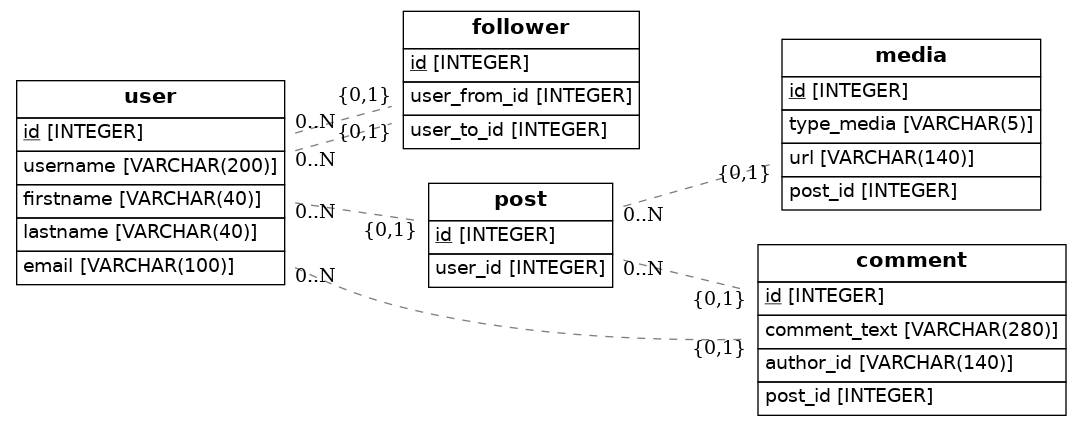
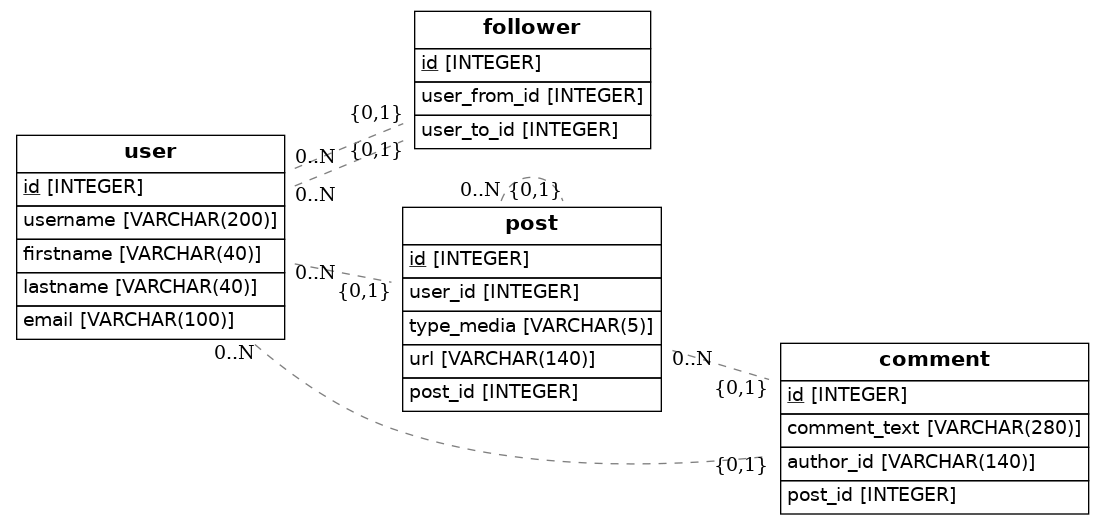
segundo commit con correcciones

Changed region(s): [[0.0, 0.0, 1.0, 1.0], [0.6411, 0.0915, 0.9769, 0.5188], [0.9463, 0.0915, 0.9769, 0.1221]]

diff --git a/src/models.py b/src/models.py
@@ -30,14 +30,9 @@ class Post(Base):
     id = Column(Integer, primary_key=True)
     user_id = Column(Integer, ForeignKey('user.id'))
     user = relationship(User)
-
-class Media(Base):
-    __tablename__ = 'media'
-    id = Column(Integer, primary_key=True)
     type_media = Column(Enum('photo', 'video'))
     url = Column(String(140), nullable=False)
     post_id = Column(Integer, ForeignKey('post.id'))
-    post = relationship(Post)
 
 class Comment(Base):
     __tablename__ = 'comment'
